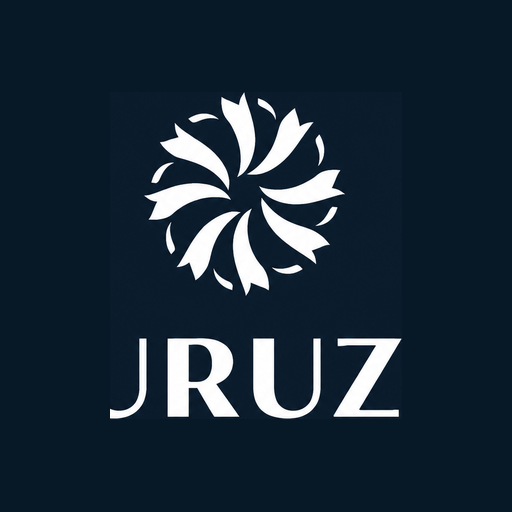
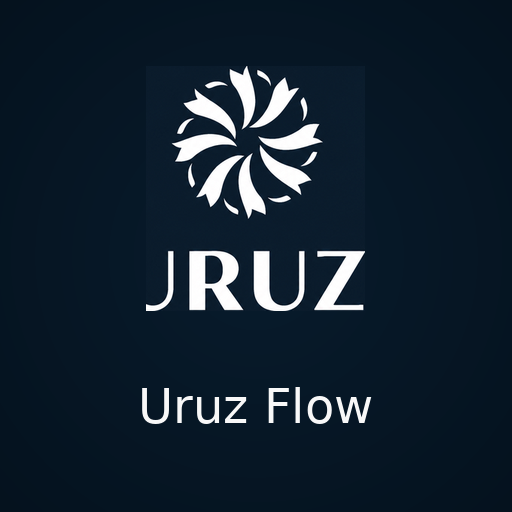
Add files via upload

Changed region(s): [[0.2812, 0.125, 0.7188, 0.625], [0.2188, 0.6562, 0.7812, 0.8438]]

diff --git a/sw.js b/sw.js
@@ -1,4 +1,4 @@
-const C='uruz-flow-v5';const A=['./','index.html','manifest.json','uruz-logo.png','icon-192.png','icon-512.png'];
+const C='uruz-flow-v6';const A=['./','index.html','manifest.json','uruz-logo.png','icon-192.png','icon-512.png','favicon.svg','favicon-32.png','favicon-16.png'];
 self.addEventListener('install',e=>e.waitUntil(caches.open(C).then(c=>c.addAll(A))));
 self.addEventListener('activate',e=>e.waitUntil(self.clients.claim()));
 self.addEventListener('fetch',e=>e.respondWith(caches.match(e.request).then(r=>r||fetch(e.request))));

diff --git a/index.html b/index.html
@@ -6,6 +6,10 @@
 <meta name="theme-color" content="#071827"/>
 <meta name="apple-mobile-web-app-capable" content="yes"/>
 <link rel="manifest" href="manifest.json"/>
+<link rel="icon" href="favicon.svg" type="image/svg+xml"/>
+<link rel="icon" href="favicon-32.png" sizes="32x32" type="image/png"/>
+<link rel="icon" href="favicon-16.png" sizes="16x16" type="image/png"/>
+
 <link rel="apple-touch-icon" href="icon-192.png"/>
 <title>URUZ Flow</title>
 <style>

diff --git a/README.md b/README.md
@@ -24,3 +24,9 @@ Then enable GitHub Pages from the main branch root.
 - Responsive mobile layout + PWA files
 
 Note: real Uruz formulas are still pending. Replace prototype formulas once the actual Excel formulas/templates are provided.
+
+## v6 branding
+- PWA icon: centered Uruz emblem with `Uruz Flow` inside the icon.
+- Browser favicon: scalable `favicon.svg`.
+- PNG favicon fallbacks: 32px and 16px.
+- Flat root structure retained.
